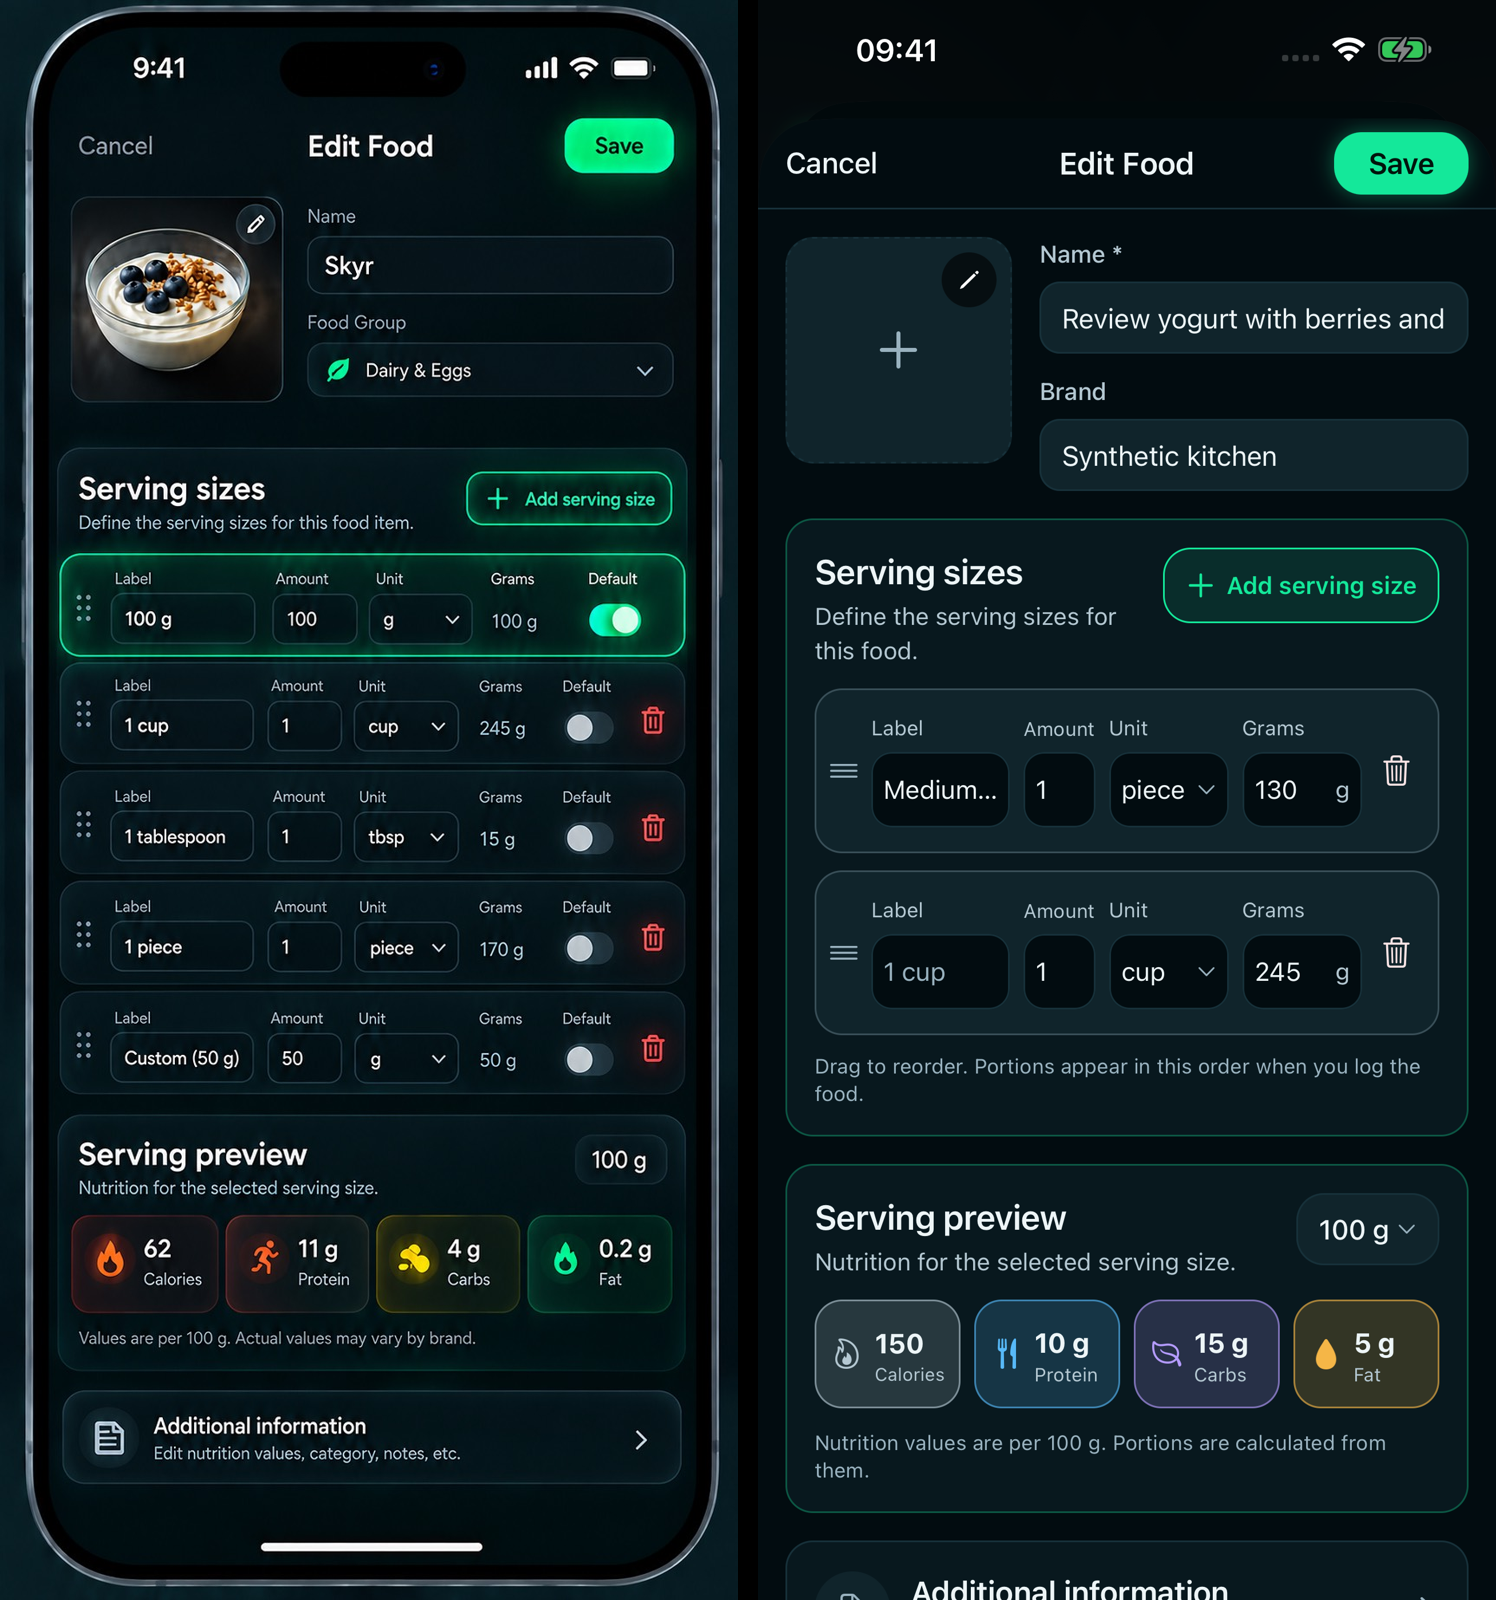
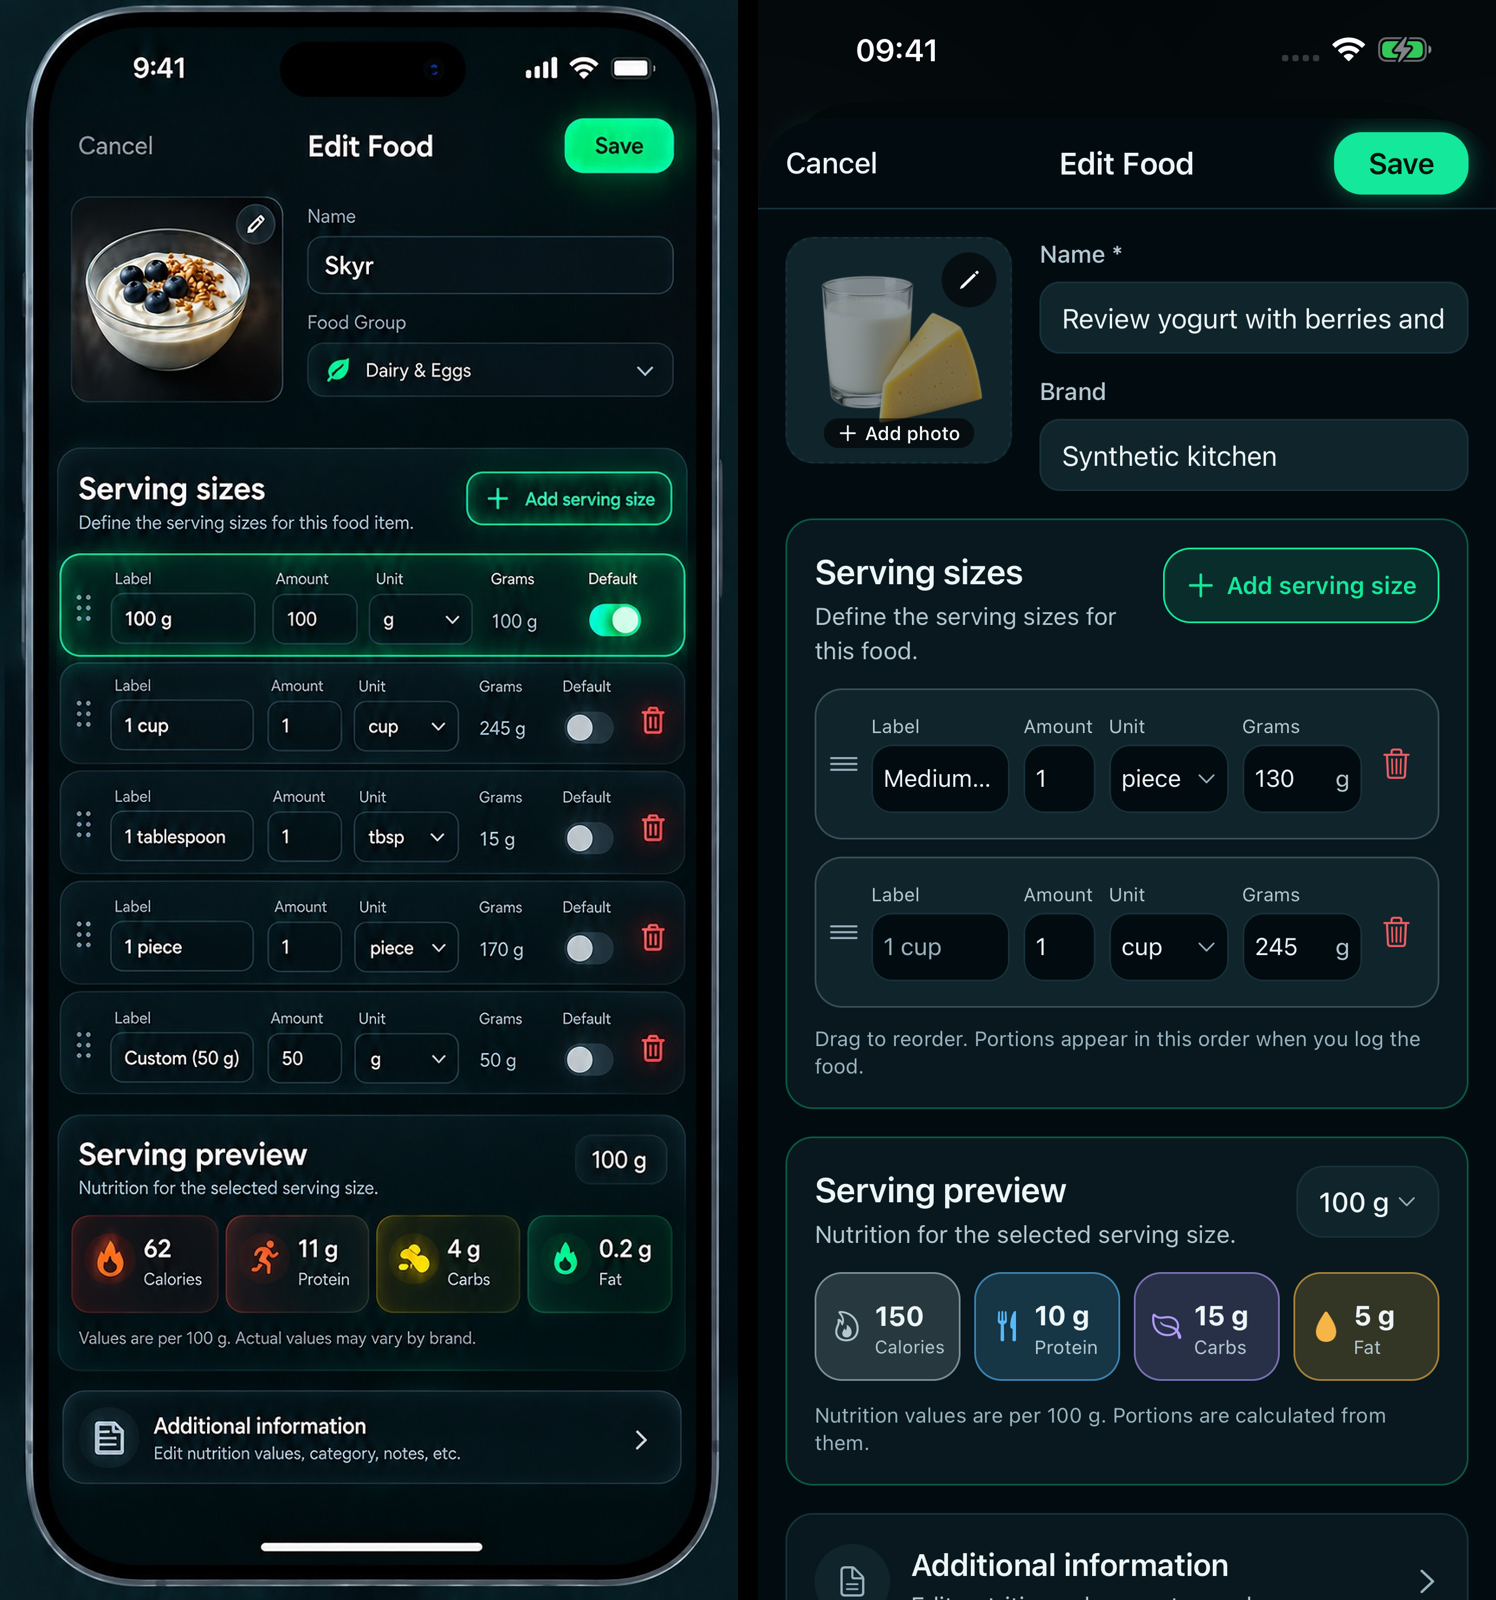
feat(mobile): Edit Food photo placeholder and compact serving rows
Without a photo, the Edit Food cover tile shows the food's category artwork
behind an Add photo hint (display-only). Serving rows are more compact and
their delete icons use the danger red, as in the reference.

diff --git a/SparkyFitnessMobile/src/components/foodForm/ServingSizesEditor.tsx b/SparkyFitnessMobile/src/components/foodForm/ServingSizesEditor.tsx
@@ -65,7 +65,7 @@ export interface ServingSizesEditorProps {
 type TFn = ReturnType<typeof useTranslation>['t'];
 
 /** Every row has the same height so the shared drag geometry stays exact. */
-const ROW_HEIGHT = 96;
+const ROW_HEIGHT = 88;
 const ROW_GAP = 10;
 
 function amountLabel(size: number, unit: string, t: TFn) {
@@ -97,7 +97,7 @@ const CellInput: React.FC<{
   placeholderColor,
 }) => (
   <View
-    className="h-11 flex-row items-center rounded-lg border border-border-subtle bg-background px-1.5"
+    className="h-10 flex-row items-center rounded-lg border border-border-subtle bg-background px-1.5"
     style={invalid ? { borderColor: dangerColor } : undefined}
   >
     <TextInput
@@ -110,7 +110,7 @@ const CellInput: React.FC<{
       keyboardType={numeric ? 'decimal-pad' : 'default'}
       returnKeyType="done"
       maxLength={numeric ? 10 : 40}
-      className="min-w-0 flex-1 text-[15px] text-text-primary"
+      className="min-w-0 flex-1 text-[14px] text-text-primary"
       style={{ paddingVertical: 0, textAlignVertical: 'center' }}
     />
     {suffix ? (
@@ -240,13 +240,13 @@ const ServingRow: React.FC<{
       <View
         testID={`serving-row-select-${index}`}
         accessibilityLabel={`${title}, ${summary}`}
-        className="min-w-0 flex-1 gap-1.5 py-2"
+        className="min-w-0 flex-1 gap-1 py-2"
       >
         <View className="flex-row gap-2">
           {headers.map(([key, label, flex]) => (
             <Text
               key={key}
-              className="text-xs text-text-secondary"
+              className="text-[11px] text-text-secondary"
               style={{ flex }}
               numberOfLines={1}
               adjustsFontSizeToFit
@@ -310,13 +310,13 @@ const ServingRow: React.FC<{
                     unit:
                       selectedOption?.label ?? localizeFoodUnit(draft.unit, t),
                   })}
-                  className="h-11 flex-row items-center justify-between rounded-lg border border-border-subtle bg-background px-1.5"
+                  className="h-10 flex-row items-center justify-between rounded-lg border border-border-subtle bg-background px-1.5"
                   style={
                     error === 'unit' ? { borderColor: dangerColor } : undefined
                   }
                 >
                   <Text
-                    className="min-w-0 flex-1 text-[15px] text-text-primary"
+                    className="min-w-0 flex-1 text-[14px] text-text-primary"
                     numberOfLines={1}
                   >
                     {selectedOption?.label ?? localizeFoodUnit(draft.unit, t)}
@@ -328,7 +328,7 @@ const ServingRow: React.FC<{
           </View>
           <View style={{ flex: 1.25 }}>
             {metricUnit ? (
-              <View className="h-11 justify-center px-1">
+              <View className="h-10 justify-center px-1">
                 <Text
                   className="text-base text-text-primary"
                   numberOfLines={1}
@@ -421,7 +421,7 @@ const ServingSizesEditor: React.FC<ServingSizesEditorProps> = ({
   ] = useCSSVariable([
     '--color-text-muted',
     '--color-accent-primary',
-    '--color-text-danger',
+    '--color-icon-danger',
     '--color-calories',
     '--color-macro-protein',
     '--color-macro-carbs',

diff --git a/SparkyFitnessMobile/src/components/FoodImagePicker.tsx b/SparkyFitnessMobile/src/components/FoodImagePicker.tsx
@@ -1,3 +1,4 @@
+import { Image } from 'expo-image';
 import React, { useRef, useState } from 'react';
 import { useTranslation } from 'react-i18next';
 import { View, Text, ScrollView, Pressable, Alert } from 'react-native';
@@ -34,6 +35,11 @@ interface FoodImagePickerProps {
   variant?: 'strip' | 'cover';
   /** Edge length of the cover tile. */
   coverSize?: number;
+  /**
+   * Cover tile without a photo: category artwork shown dimmed behind an
+   * "Add photo" hint. Display-only; it is never saved as the food's image.
+   */
+  coverPlaceholder?: number;
 }
 
 /**
@@ -53,6 +59,7 @@ const FoodImagePicker: React.FC<FoodImagePickerProps> = ({
   disabled = false,
   variant = 'strip',
   coverSize = 132,
+  coverPlaceholder,
 }) => {
   const { t } = useTranslation();
   const getImageSource = useFoodImageSourceContext();
@@ -273,6 +280,29 @@ const FoodImagePicker: React.FC<FoodImagePickerProps> = ({
             style={{ width: coverSize, height: coverSize }}
             contentFit="cover"
           />
+        ) : coverPlaceholder !== undefined ? (
+          <>
+            <Image
+              source={coverPlaceholder}
+              style={{
+                width: coverSize * 0.8,
+                height: coverSize * 0.8,
+                opacity: 0.55,
+              }}
+              contentFit="contain"
+            />
+            <View
+              className="absolute bottom-2 flex-row items-center gap-1 rounded-full bg-black/60 px-2 py-0.5"
+              pointerEvents="none"
+            >
+              <Icon name="add" size={12} color="#ffffff" />
+              <Text className="text-[11px] font-medium text-white">
+                {t('foodImagePicker.actions.addPhoto', {
+                  defaultValue: 'Add photo',
+                })}
+              </Text>
+            </View>
+          </>
         ) : (
           <Icon name="add" size={28} color={textMuted} />
         )}

diff --git a/SparkyFitnessMobile/src/screens/foodForm/EditFoodMode.tsx b/SparkyFitnessMobile/src/screens/foodForm/EditFoodMode.tsx
@@ -15,6 +15,7 @@ import FoodImagePicker from '../../components/FoodImagePicker';
 import ServingSizesEditor from '../../components/foodForm/ServingSizesEditor';
 import i18n from '../../localization/i18n';
 import { usableFoodImages } from '../../utils/foodImages';
+import { foodFallbackImage } from '../../utils/foodFallbackImages';
 import {
   pickerImagesDiffer,
   splitPickerImages,
@@ -528,6 +529,7 @@ export function EditFoodMode({
         identityAside={
           <FoodImagePicker
             variant="cover"
+            coverPlaceholder={foodFallbackImage(item?.name)}
             items={pickerImages}
             onItemsChange={setPickerImages}
             disabled={isSubmitting}

diff --git a/docs/implementation/serving-sizes-ui-2026-09-30.md b/docs/implementation/serving-sizes-ui-2026-09-30.md
@@ -80,3 +80,9 @@ Captures, synthetic fixture, English, dark, 430 pt, are in `x-on-track-design/re
   - The row field text is vertically centred.
   - The name field is labelled "Name".
 - **Captures:** side-by-side comparisons are `compare-food-details.png` and `compare-edit-food.png` in the review folder.
+
+## Third pass against the Edit Food reference
+
+- **Photo tile:** without a photo, the tile shows the food's category artwork dimmed, with "+ Add photo". It is display-only and never saved.
+- **Serving rows:** trash icons use the danger icon red, and rows are more compact (88 pt, 14 pt field text).
+- **Cancel:** it keeps the header's standard text colour. The shared header enforces one accent and neutral navigation actions on every screen, so the reference's muted Cancel is not copied.
